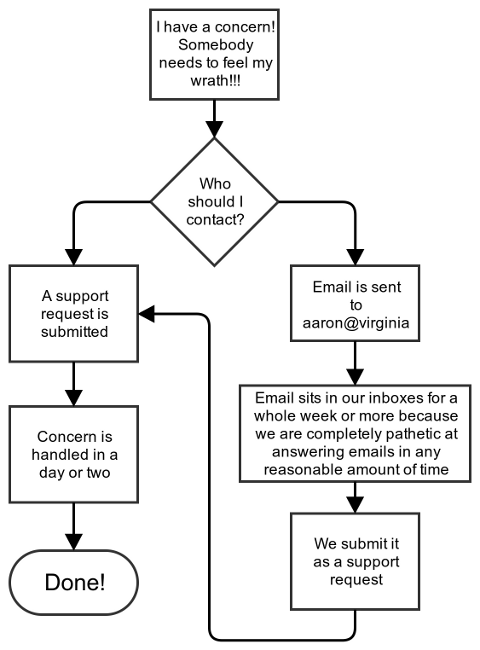
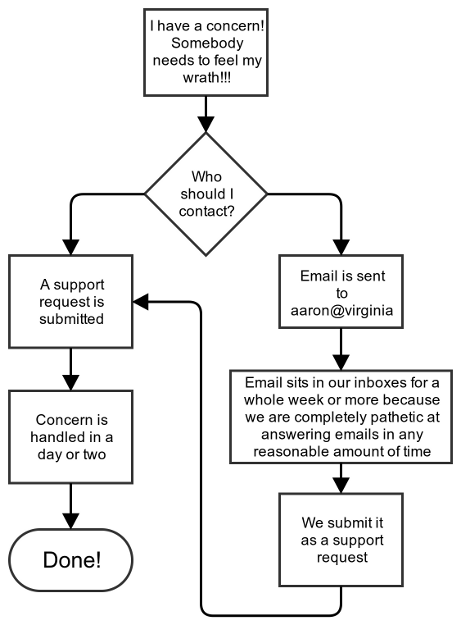
A few updates so it will fit on a 1024x768 screen

diff --git a/slides/01-intro.html b/slides/01-intro.html
@@ -125,7 +125,7 @@ One graduate grader
 - Lab meetings: 1 per week
   - Tues 11:00-12:45, 1:30-3:15, 3:30-5:15, 5:30-7:15, or 7:30-9:15
   - You cannot attend another lab section without prior permission
-  - We'll talk about registration issues shortly...
+  - We'll talk about registration issues next
 - Office hours, if you choose to attend them
 
 	  </script></section>
@@ -313,15 +313,14 @@ Furthermore, you cannot use any IDE (Xcode, Eclipse, Netbeans, etc. Visual Studi
 	  <section data-markdown><script type="text/template">
 ## Using git
 - git is installed on the VirtualBox image (more on VirtualBox shortly)
-- To use git:
-  - Enter the following command only once (no github account needed!):
+- To use git, enter the following command only once (no github account needed!):
 ```
 git clone https://github.com/aaronbloomfield/pdr.git
 ```
-    - This will create a 'pdr' directory that contains everything from the repo: the slides, the labs, the tutorials, etc.
-    - Note that much of the content of this repository will be added throughout the semester
-    - This was already done on the VirtualBox image that you will see in lab 1
-  - To get the latest version, just change into that directory via the command line, and enter:
+  - This will create a 'pdr' directory that contains everything from the repo: the slides, the labs, the tutorials, etc.
+  - Note that much of the content of this repository will be added throughout the semester
+  - This was already done on the provided VirtualBox image
+- To get the latest version, just change into that directory via the command line, and enter:
 ```
 git pull
 ```
@@ -408,7 +407,7 @@ Do these count as honor violations?
   - It can NOT be taken early, so don't even ask
 - 5% Class participation
   - Some examples: random in-class quizzes on readings or previously covered topics, in-class questions, speaking up in class, using Piazza, useful contributions to the github repo, etc.
-- We reserve the right to change this!  See the course syllabus for details...
+- I reserve the right to change this!  See the course syllabus for details...
 	</script></section>
 
 	<section data-markdown><script type="text/template">
